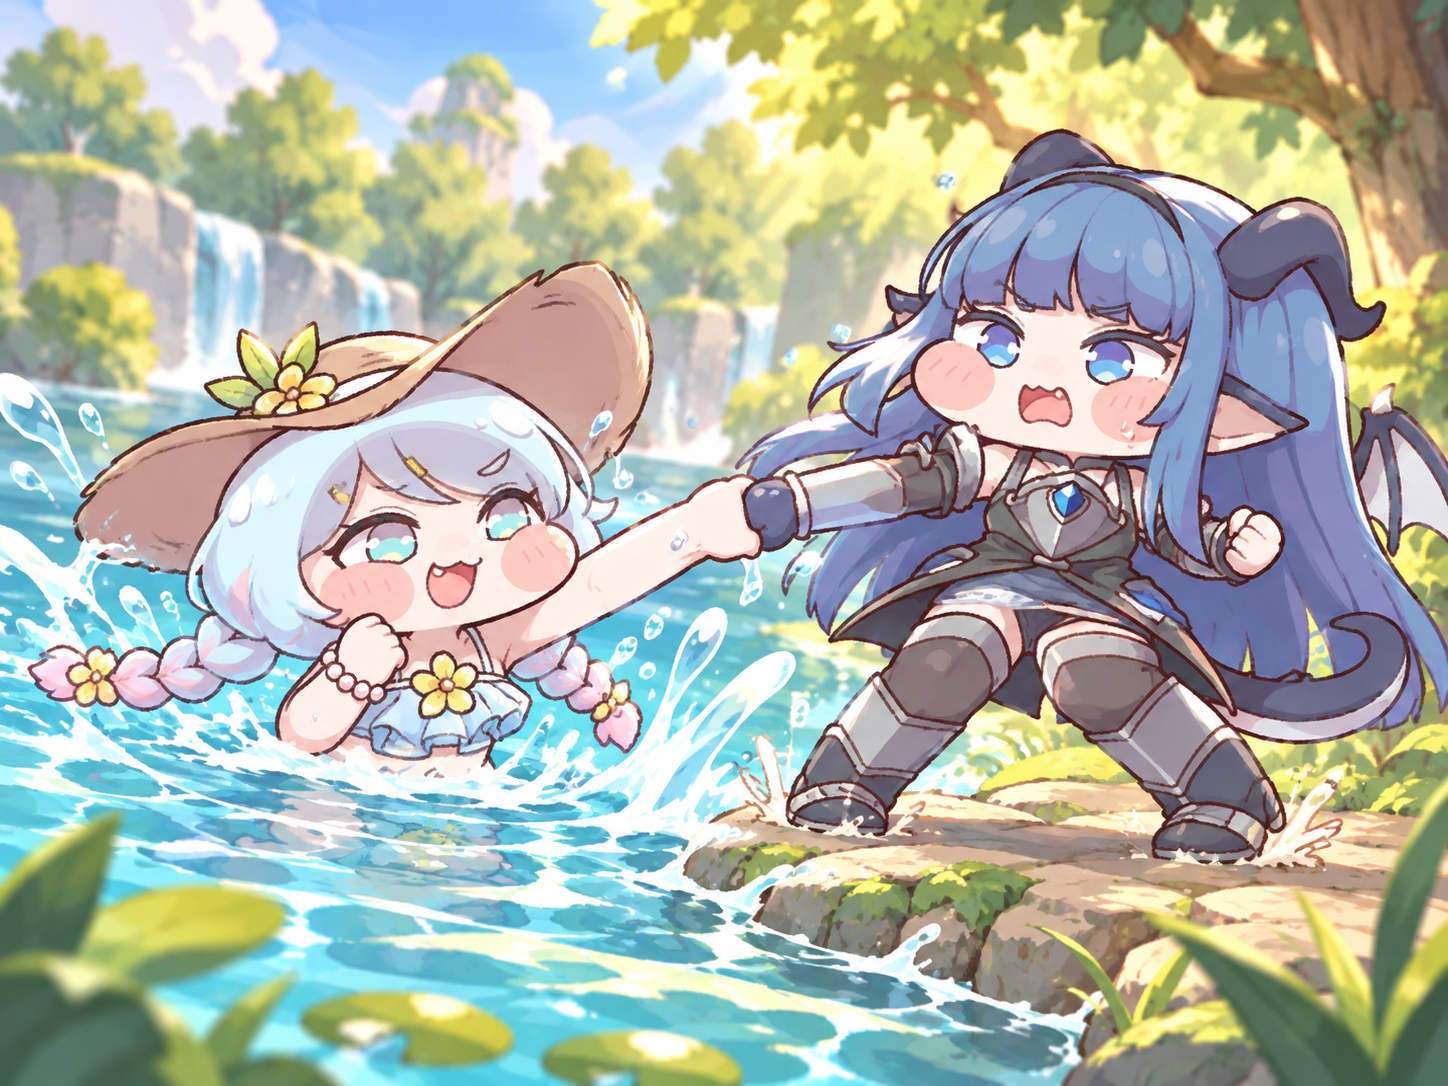
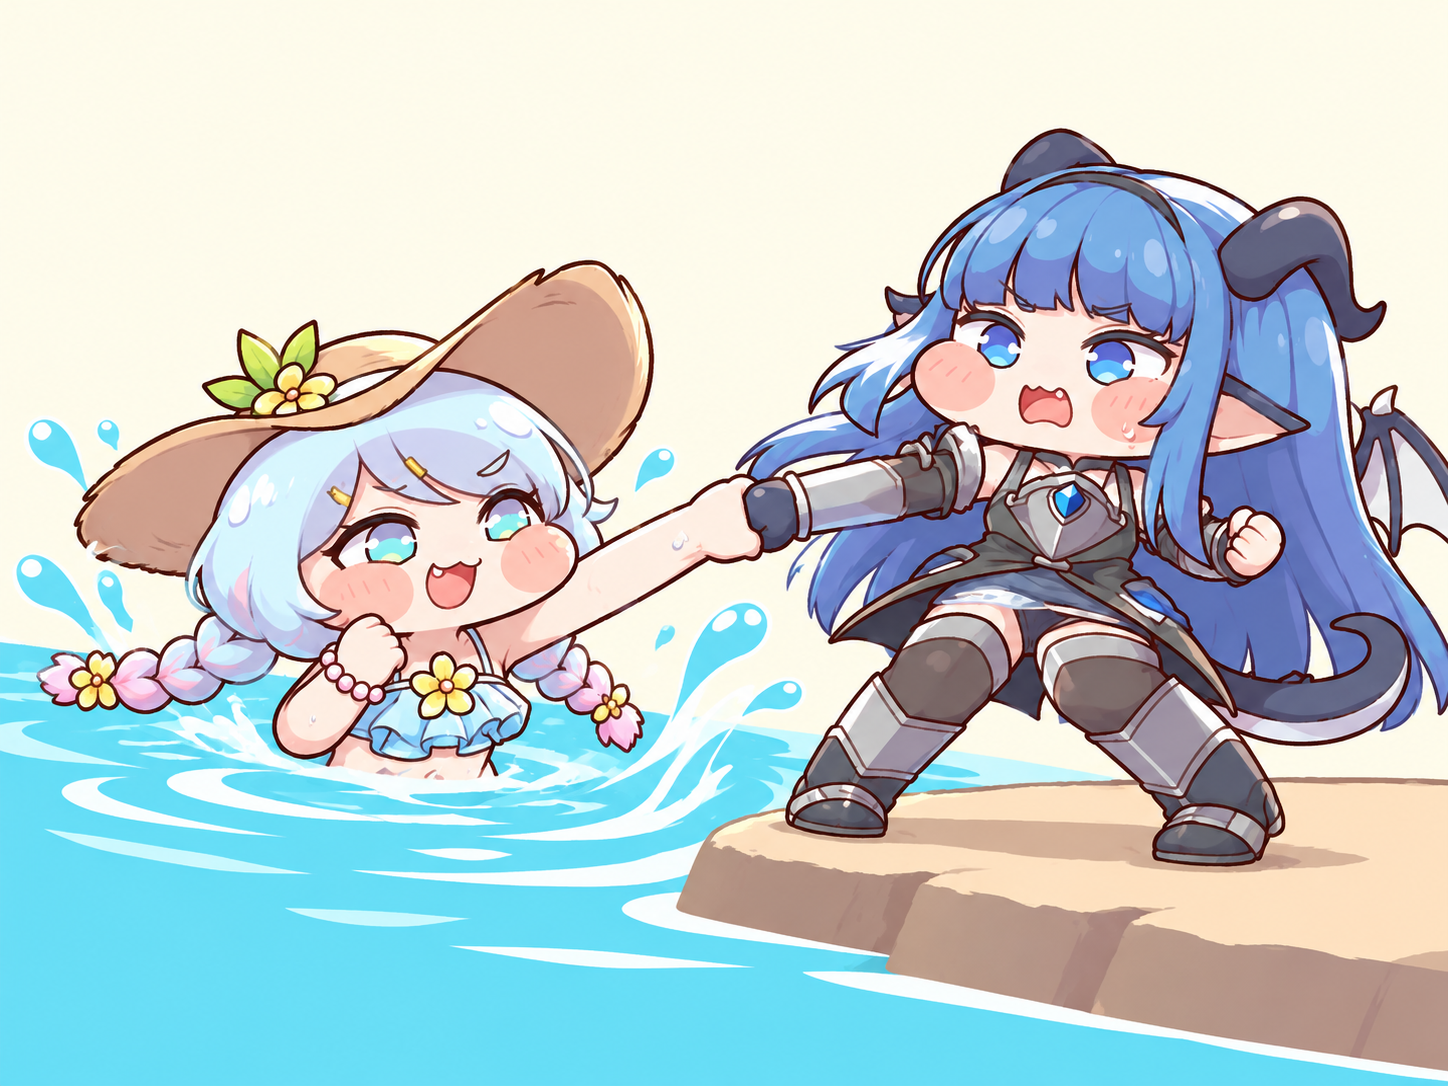
Simplify recent card backgrounds for clear character silhouettes

diff --git a/docs/ui-trial/card-art-direction.md b/docs/ui-trial/card-art-direction.md
@@ -1,0 +1,19 @@
+# 카드 일러스트 공통 제작 기준
+
+사용자 피드백: 제작이 진행될수록 배경이 화려해져 캐릭터가 묻혔다. 앞으로 카드 삽화의 기본은 **캐릭터와 핵심 동작을 먼저 읽을 수 있는 단순한 배경**이다.
+
+- 배경은 단색 또는 매우 옅은 두 색 그라데이션. 밝고 낮은 대비의 넓은 여백을 둔다.
+- 마을·건물·숲·실내 장식·원경·세밀한 바닥 무늬를 넣지 않는다. 복잡한 풍경을 흐리게 처리하는 방식도 피한다.
+- 캐릭터와 효과에 꼭 필요한 소품만 그린다. 바나나, 소환 덩굴, 포탈, 타로, 택배, 클로버 등은 핵심 소품이다.
+- 바닥·수면·바위는 위치와 행동을 설명하는 최소 형태만. 호수 장면은 단순한 수면 띠와 바위 하나로 충분하다.
+- 효과선·반짝임은 소수의 굵고 단순한 형태만 쓰고, 얼굴이나 주요 소품을 가리지 않는다. 빛 입자·꽃·낙엽·보케를 화면 전체에 흩뿌리지 않는다.
+- 3등신 치비, 큰 볼, 네 손가락 또는 단순한 주먹 손, 기존 캐릭터 외형과 읽기 쉬운 동작을 유지한다.
+- 실제 손패 크기 140×220에서 얼굴·핵심 소품이 가장 먼저 보이는지 확인한다. 캐릭터보다 배경이 먼저 눈에 띄면 단순화한다.
+
+공통 프롬프트 핵심:
+
+> Character-first simple game-card illustration. Nearly flat pale pastel background or extremely gentle two-color gradient, large quiet negative space, no detailed environment or blurred scenery. Only the character, essential action props, minimal contextual ground/water, and a few broad action accents. Clean silhouettes readable at tiny card size.
+
+`simple-background-v5` 적용: ACT_08, ACT_13, TRP_06, TRP_07, TRP_08, TRP_C02, TRP_C03, TRP_C04. 이미 단순한 효과선 배경인 ACT_09와 ACT_15는 이번 교체 대상에 포함하지 않았다. 기존 캐릭터·구도·동작을 입력 이미지로 고정해 내장 이미지 생성 도구에서 배경을 편집했다.
+
+교체 전 PNG/임포트, 새 원본, 프롬프트, 해시, 실제 카드 UI 및 비교 검수는 작업 폴더 `outputs/cards-simple-bg-v05/`에 보관한다. 원본 PNG는 생성 결과 그대로 복사하고 기존 임포트 설정과 UID를 유지한다.

diff --git a/docs/ui-trial/card-traps-v04.md b/docs/ui-trial/card-traps-v04.md
@@ -1,5 +1,7 @@
 # 함정 카드 캐릭터 일러스트 6종
 
+현재 배경 기준은 [카드 일러스트 공통 제작 기준](card-art-direction.md)을 따른다. 여섯 카드는 `simple-background-v5`에서 캐릭터와 핵심 소품을 유지하며 단순한 배경으로 교체했다.
+
 기존 카드와 같은 4:3 가로 삽화와 3등신 치비 비율, 단순한 네 손가락/주먹 손 형태로 내장 이미지 생성 도구에서 제작했다.
 
 | ID | 카드명 | 캐릭터와 장면 |

diff --git a/docs/ui-trial/card-scenes-v03.md b/docs/ui-trial/card-scenes-v03.md
@@ -1,5 +1,7 @@
 # 카드 장면 일러스트 4종과 명칭 수정
 
+현재 배경 기준은 [카드 일러스트 공통 제작 기준](card-art-direction.md)을 따른다. ACT_08과 ACT_13은 `simple-background-v5`에서 캐릭터와 동작을 유지하며 단순한 배경으로 교체했다.
+
 기존 카드와 같은 4:3 가로 삽화, 3등신 치비, 네 손가락 기준으로 내장 이미지 생성 도구에서 새로 제작했다.
 
 | 카드 ID | 장면 |
